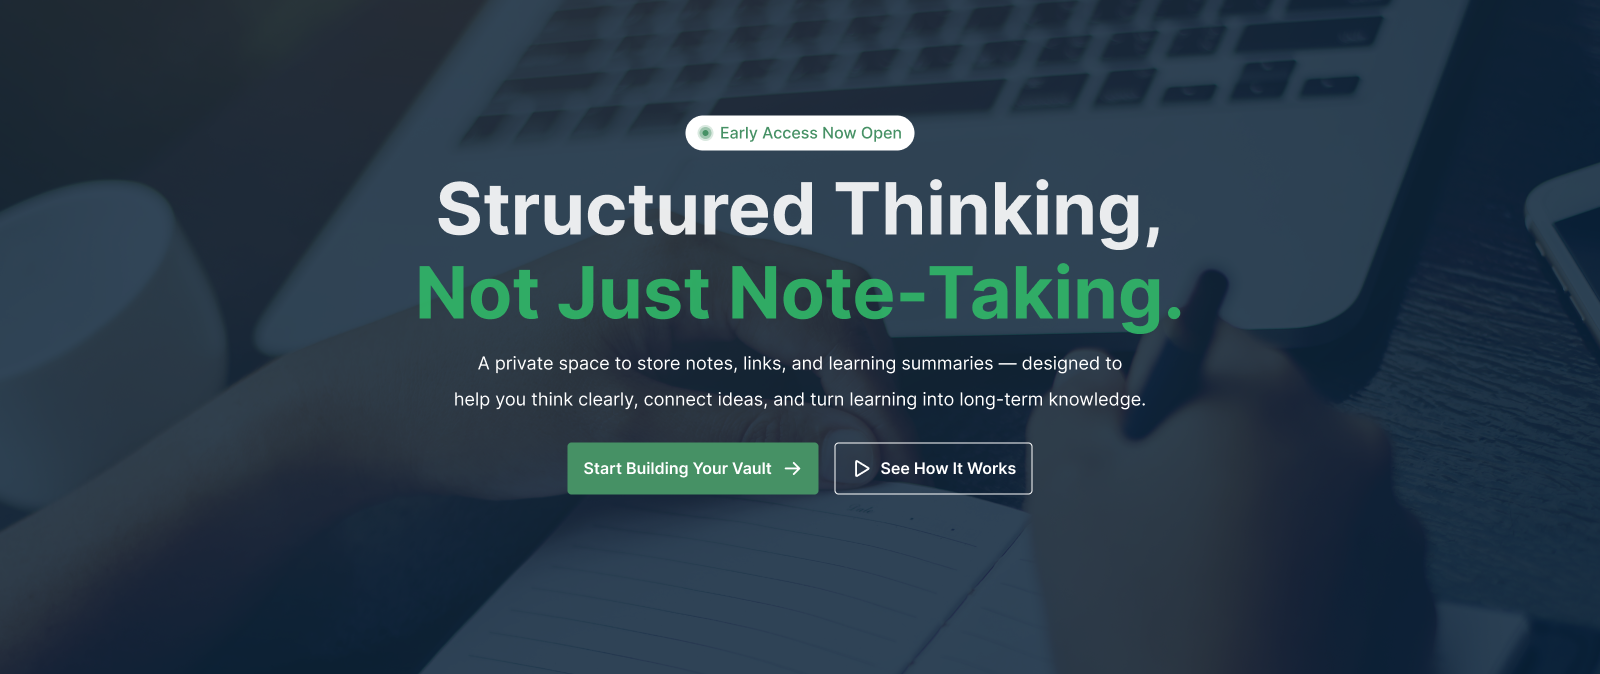
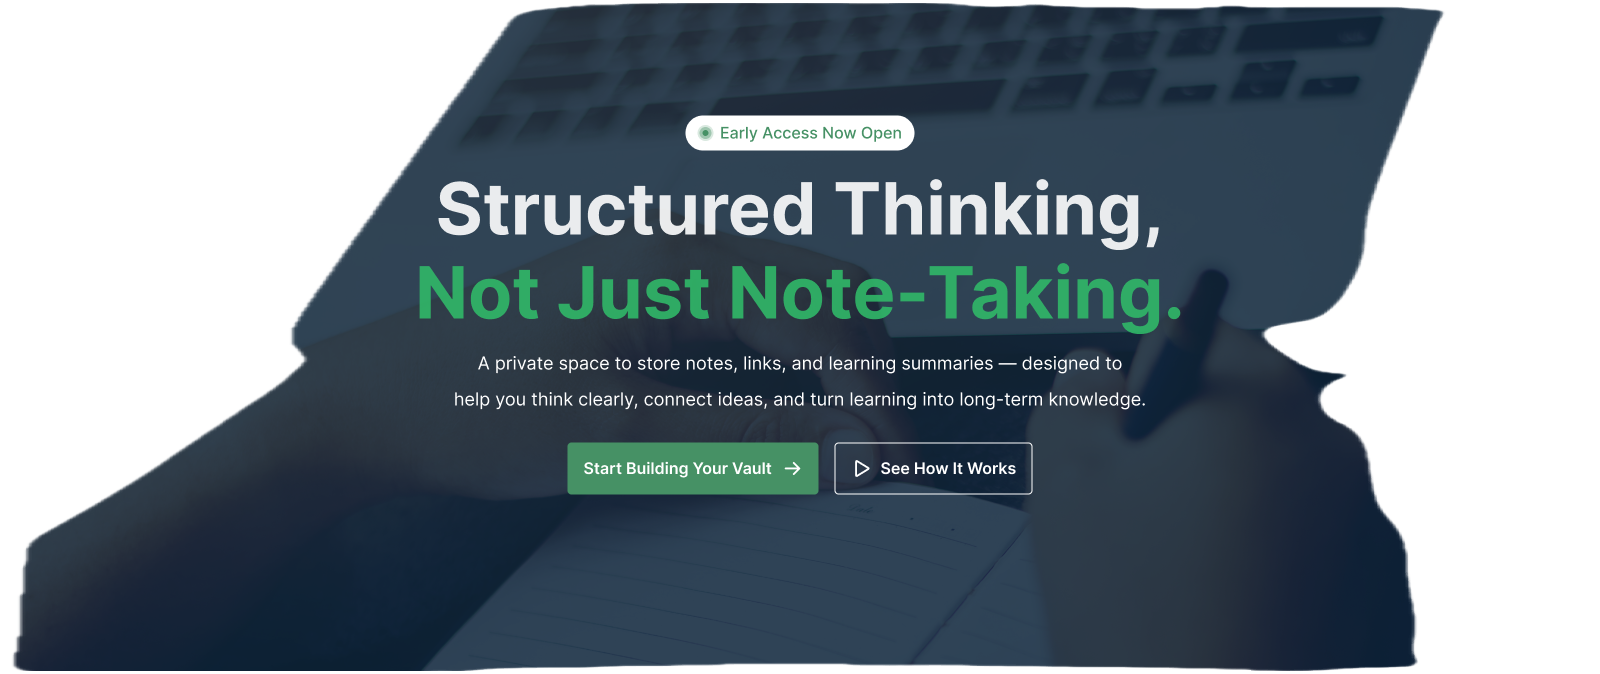
background image and text alignment add

diff --git a/index.html b/index.html
@@ -27,13 +27,30 @@
             </div>
 
             <div class="btn">
-                <a href="">Get Early Access</a>
+                <a href="#">Get Early Access</a>
             </div>
             
         </nav>
 
-        
     </header>
+    <main>
+        <section class="hero-section bgimg" >
+            <div class="hero-content">
+              <div>
+                <p class="announce">Early Access Now Open</p>
+            </div>
+                <h2>Structured thinking,
+                    <span>not just note-taking.</span></h2>
+                    <p>A private space to store notes, links, and learning summaries — designed to
+                    help you think clearly, connect ideas, and turn learning into long-term knowledge.</p>
+                    <div>
+                        <button>Start Building Your Vault</button>
+                        <button>See How It Works</button>
+                    </div>
+          </div>
+        </section>
+    </main>
+    
         
 </body>
 </html>

diff --git a/style.css b/style.css
@@ -16,6 +16,8 @@
     padding: 16px 120px;
     align-items: center;
     margin: 0 auto;
+    /* border: 10px solid red; */
+    margin-bottom: 0px;
 }
 .navbar .logo{
     width: 8%;
@@ -42,3 +44,17 @@
 
 /* header section */
 
+.bgimg{
+    background-image: url(./assets/hero-bg.png);
+    height: 700px;
+    width:100%;
+    background-repeat: no-repeat;
+    background-size: cover;
+    display: flex;
+    align-items: center;
+    justify-content: center;
+}
+.hero-content{
+    text-align: center;
+    
+}
